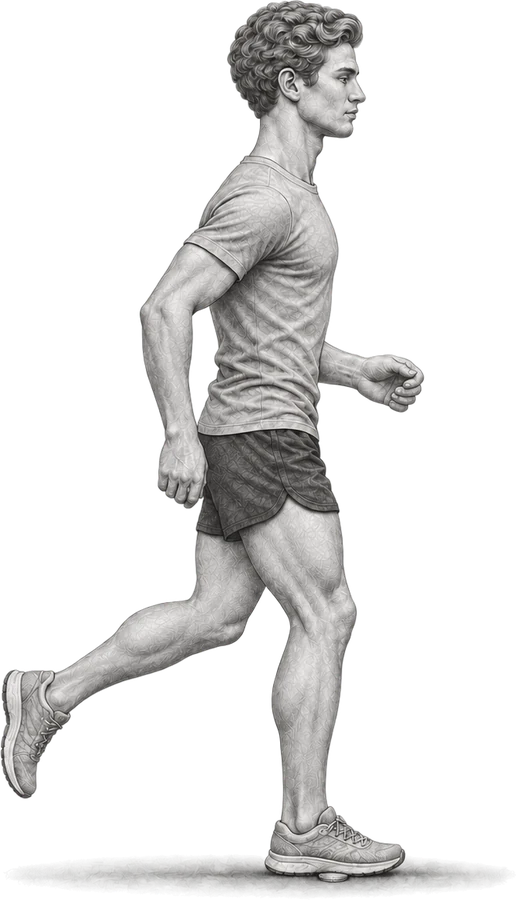
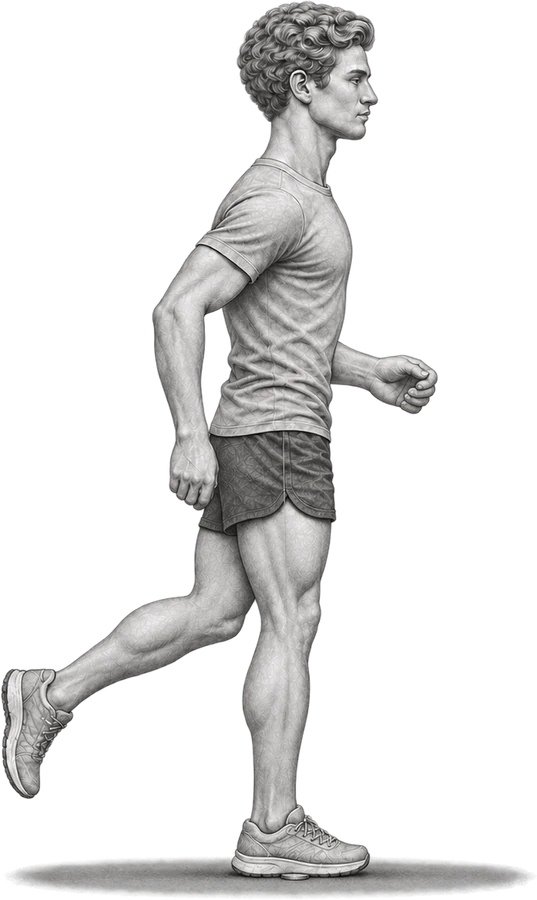
Cue pages: Picture it, Try it now (with what it feels like), Why it works; revised drawings for the five new cues
Claude-Session: https://claude.ai/code/session_01FwBuCoGgVzUwZtu9MbiFhK

Changed region(s): [[0.0, 0.0, 0.9922, 0.9956], [0.6512, 0.3733, 0.8372, 0.4667], [0.6202, 0.2178, 0.6512, 0.2489]]

diff --git a/cues/index.html b/cues/index.html
@@ -21,11 +21,11 @@
   <li><a href="/cues/four-lights/"><div class="cues-figure"><img src="/assets/cues/four-lights-600.webp" srcset="/assets/cues/four-lights-600.webp 1x, /assets/cues/four-lights-900.webp 2x" width="170" height="450" alt="A runner from the front, with small lights marking both shoulders and both hips, all square and facing forward." loading="lazy" decoding="async"></div><strong>Four lights</strong><span>Keep your shoulders right on top of your hips.</span></a></li>
   <li><a href="/cues/elbows-back/"><div class="cues-figure"><img src="/assets/cues/elbows-back-600.webp" srcset="/assets/cues/elbows-back-600.webp 1x, /assets/cues/elbows-back-900.webp 2x" width="326" height="450" alt="A runner from the side driving one elbow back behind the body." loading="lazy" decoding="async"></div><strong>Elbows back</strong><span>Push your elbows back. Let them swing forward on their own.</span></a></li>
   <li><a href="/cues/low-hands/"><div class="cues-figure"><img src="/assets/cues/low-hands-600.webp" srcset="/assets/cues/low-hands-600.webp 1x, /assets/cues/low-hands-900.webp 2x" width="177" height="450" alt="A runner with loose hands passing low, close to the hips." loading="lazy" decoding="async"></div><strong>Low hands</strong><span>Keep your hands low, close to your hips.</span></a></li>
-  <li><a href="/cues/soft-hands/"><div class="cues-figure"><img src="/assets/cues/soft-hands-600.webp" srcset="/assets/cues/soft-hands-600.webp 1x, /assets/cues/soft-hands-900.webp 2x" width="212" height="450" alt="A runner from the front with loose, relaxed hands." loading="lazy" decoding="async"></div><strong>Soft hands</strong><span>Keep your hands loose, never in a fist.</span></a></li>
-  <li><a href="/cues/hips-forward/"><div class="cues-figure"><img src="/assets/cues/hips-forward-600.webp" srcset="/assets/cues/hips-forward-600.webp 1x, /assets/cues/hips-forward-900.webp 2x" width="398" height="450" alt="A runner from the side, tall, with a thin orange rope pulling forward from the belt buckle." loading="lazy" decoding="async"></div><strong>Hips forward</strong><span>Run tall with your hips forward, right under your shoulders.</span></a></li>
-  <li><a href="/cues/tall-spring/"><div class="cues-figure"><img src="/assets/cues/tall-spring-600.webp" srcset="/assets/cues/tall-spring-600.webp 1x, /assets/cues/tall-spring-900.webp 2x" width="280" height="450" alt="A tall runner from the side with a light coil drawn around the standing leg." loading="lazy" decoding="async"></div><strong>Tall spring</strong><span>Run tall, with soft knees.</span></a></li>
-  <li><a href="/cues/land-under-you/"><div class="cues-figure"><img src="/assets/cues/land-under-you-600.webp" srcset="/assets/cues/land-under-you-600.webp 1x, /assets/cues/land-under-you-900.webp 2x" width="258" height="450" alt="A runner from the side with the front foot landing under the hips, on a small coin." loading="lazy" decoding="async"></div><strong>Land under you</strong><span>Let each foot land right under your hips, not out in front.</span></a></li>
-  <li><a href="/cues/quick-feet/"><div class="cues-figure"><img src="/assets/cues/quick-feet-600.webp" srcset="/assets/cues/quick-feet-600.webp 1x, /assets/cues/quick-feet-900.webp 2x" width="263" height="450" alt="A runner from the side, one foot barely touching the ground with small heat lines under it." loading="lazy" decoding="async"></div><strong>Quick feet</strong><span>Take light, quick steps. Your feet leave the ground fast.</span></a></li>
+  <li><a href="/cues/soft-hands/"><div class="cues-figure"><img src="/assets/cues/soft-hands-600.webp" srcset="/assets/cues/soft-hands-600.webp 1x, /assets/cues/soft-hands-900.webp 2x" width="220" height="450" alt="A runner from the front with loose, relaxed hands." loading="lazy" decoding="async"></div><strong>Soft hands</strong><span>Keep your hands loose, never in a fist.</span></a></li>
+  <li><a href="/cues/hips-forward/"><div class="cues-figure"><img src="/assets/cues/hips-forward-600.webp" srcset="/assets/cues/hips-forward-600.webp 1x, /assets/cues/hips-forward-900.webp 2x" width="393" height="450" alt="A runner from the side, tall, with a thin orange rope pulling forward from the belt buckle." loading="lazy" decoding="async"></div><strong>Hips forward</strong><span>Run tall with your hips forward, right under your shoulders.</span></a></li>
+  <li><a href="/cues/tall-spring/"><div class="cues-figure"><img src="/assets/cues/tall-spring-600.webp" srcset="/assets/cues/tall-spring-600.webp 1x, /assets/cues/tall-spring-900.webp 2x" width="279" height="450" alt="A tall runner from the side with a light coil drawn around the standing leg." loading="lazy" decoding="async"></div><strong>Tall spring</strong><span>Run tall, with soft knees.</span></a></li>
+  <li><a href="/cues/land-under-you/"><div class="cues-figure"><img src="/assets/cues/land-under-you-600.webp" srcset="/assets/cues/land-under-you-600.webp 1x, /assets/cues/land-under-you-900.webp 2x" width="268" height="450" alt="A runner from the side with the front foot landing under the hips, on a small coin." loading="lazy" decoding="async"></div><strong>Land under you</strong><span>Let each foot land right under your hips, not out in front.</span></a></li>
+  <li><a href="/cues/quick-feet/"><div class="cues-figure"><img src="/assets/cues/quick-feet-600.webp" srcset="/assets/cues/quick-feet-600.webp 1x, /assets/cues/quick-feet-900.webp 2x" width="268" height="450" alt="A runner from the side, one foot barely touching the ground with small heat lines under it." loading="lazy" decoding="async"></div><strong>Quick feet</strong><span>Take light, quick steps. Your feet leave the ground fast.</span></a></li>
   <li><a href="/cues/straight-feet/"><div class="cues-figure"><img src="/assets/cues/straight-feet-600.webp" srcset="/assets/cues/straight-feet-600.webp 1x, /assets/cues/straight-feet-900.webp 2x" width="167" height="450" alt="A runner from the front with both feet landing pointed straight ahead." loading="lazy" decoding="async"></div><strong>Straight feet</strong><span>Point your toes straight ahead when each foot lands.</span></a></li>
 </ul>
 <nav class="cues-shell cues-rows" aria-label="Next">

diff --git a/cues/hips-forward/index.html b/cues/hips-forward/index.html
@@ -15,12 +15,15 @@
 <div class="cues-top"><header class="cues-shell sf-menu-host"><a class="sf-brand" href="/" aria-label="Speed and Form home"></a><a class="sf-menu-toggle" href="#site-menu" aria-controls="site-menu" aria-label="Menu"><svg viewBox="0 0 24 24" aria-hidden="true" focusable="false"><path d="M3 6h18M3 12h18M3 18h18"/></svg></a></header></div>
 <main>
 <article class="cues-shell cue">
-  <figure class="cue-figure"><img src="/assets/cues/hips-forward-900.webp" width="797" height="900" alt="A runner from the side, tall, with a thin orange rope pulling forward from the belt buckle." fetchpriority="high" decoding="async"></figure>
+  <figure class="cue-figure"><img src="/assets/cues/hips-forward-900.webp" width="786" height="900" alt="A runner from the side, tall, with a thin orange rope pulling forward from the belt buckle." fetchpriority="high" decoding="async"></figure>
   <div class="cue-copy">
     <h1>Hips forward</h1>
     <p class="cue-do">Run tall with your hips forward, right under your shoulders.</p>
-    <p class="cue-think">Pretend a rope is tied to your belt buckle, gently pulling you forward. Your hips go first and your feet follow.</p>
-    <p class="cue-why">When your hips sit back, your legs do all the work. Hips forward lets your glutes push you along.</p>
+    <div class="cue-beats">
+      <section><h2>Picture it</h2><p>Pretend a rope is tied to your belt buckle, gently pulling you forward. Your hips go first and your feet follow.</p></section>
+      <section><h2>Try it now</h2><p>Stand tall and lean your whole body forward from the ankles until you have to take a step. That first step is the feeling.</p><p class="cue-feel">Your glutes push you along and each step feels easier.</p></section>
+      <section><h2>Why it works</h2><p>When your hips sit back, your legs do all the work. Hips forward lets your glutes push you along.</p></section>
+    </div>
     <p class="cue-practice">On easy runs, think about it for 30 seconds, three times. Then run normally and notice the difference. In hard workouts, use it on the last rep.</p>
     <div class="cue-app"><img src="/assets/brand/apps/icon-run-cream-1024.png" alt="" width="56" height="56" loading="lazy"><a class="cue-app-get" href="https://apps.apple.com/us/app/form-running-plans/id6761313085" target="_blank" rel="noopener noreferrer">Practice it in the app <svg viewBox="0 0 24 24" aria-hidden="true" focusable="false"><path d="M5 19 19 5M5 5h14v14"/></svg></a></div>
   </div>

diff --git a/cues/tall-spring/index.html b/cues/tall-spring/index.html
@@ -15,12 +15,15 @@
 <div class="cues-top"><header class="cues-shell sf-menu-host"><a class="sf-brand" href="/" aria-label="Speed and Form home"></a><a class="sf-menu-toggle" href="#site-menu" aria-controls="site-menu" aria-label="Menu"><svg viewBox="0 0 24 24" aria-hidden="true" focusable="false"><path d="M3 6h18M3 12h18M3 18h18"/></svg></a></header></div>
 <main>
 <article class="cues-shell cue">
-  <figure class="cue-figure"><img src="/assets/cues/tall-spring-900.webp" width="560" height="900" alt="A tall runner from the side with a light coil drawn around the standing leg." fetchpriority="high" decoding="async"></figure>
+  <figure class="cue-figure"><img src="/assets/cues/tall-spring-900.webp" width="559" height="900" alt="A tall runner from the side with a light coil drawn around the standing leg." fetchpriority="high" decoding="async"></figure>
   <div class="cue-copy">
     <h1>Tall spring</h1>
     <p class="cue-do">Run tall, with soft knees.</p>
-    <p class="cue-think">Pretend you are a spring standing up tall. Each step squishes it a little, and it pops you forward.</p>
-    <p class="cue-why">A tall, springy body stores energy on every step and gives it back. Stiff or slumped, that energy leaks away.</p>
+    <div class="cue-beats">
+      <section><h2>Picture it</h2><p>Pretend you are a spring standing up tall. Each step squishes it a little, and it pops you forward.</p></section>
+      <section><h2>Try it now</h2><p>Do 20 small hops on the spot, light and quiet, staying tall. Then start running with the same bounce.</p><p class="cue-feel">Each step feels light, like the ground gives some energy back.</p></section>
+      <section><h2>Why it works</h2><p>A tall, springy body stores energy on every step and gives it back. Stiff or slumped, that energy leaks away.</p></section>
+    </div>
     <p class="cue-practice">On easy runs, think about it for 30 seconds, three times. Then run normally and notice the difference. In hard workouts, use it on the last rep.</p>
     <div class="cue-app"><img src="/assets/brand/apps/icon-run-cream-1024.png" alt="" width="56" height="56" loading="lazy"><a class="cue-app-get" href="https://apps.apple.com/us/app/form-running-plans/id6761313085" target="_blank" rel="noopener noreferrer">Practice it in the app <svg viewBox="0 0 24 24" aria-hidden="true" focusable="false"><path d="M5 19 19 5M5 5h14v14"/></svg></a></div>
   </div>

diff --git a/cues/land-under-you/index.html b/cues/land-under-you/index.html
@@ -15,12 +15,15 @@
 <div class="cues-top"><header class="cues-shell sf-menu-host"><a class="sf-brand" href="/" aria-label="Speed and Form home"></a><a class="sf-menu-toggle" href="#site-menu" aria-controls="site-menu" aria-label="Menu"><svg viewBox="0 0 24 24" aria-hidden="true" focusable="false"><path d="M3 6h18M3 12h18M3 18h18"/></svg></a></header></div>
 <main>
 <article class="cues-shell cue">
-  <figure class="cue-figure"><img src="/assets/cues/land-under-you-900.webp" width="516" height="900" alt="A runner from the side with the front foot landing under the hips, on a small coin." fetchpriority="high" decoding="async"></figure>
+  <figure class="cue-figure"><img src="/assets/cues/land-under-you-900.webp" width="537" height="900" alt="A runner from the side with the front foot landing under the hips, on a small coin." fetchpriority="high" decoding="async"></figure>
   <div class="cue-copy">
     <h1>Land under you</h1>
     <p class="cue-do">Let each foot land right under your hips, not out in front.</p>
-    <p class="cue-think">Pretend there is a coin on the ground right under your hips. Step on the coin.</p>
-    <p class="cue-why">A foot that lands far in front puts on the brakes. Landing under you keeps you rolling forward.</p>
+    <div class="cue-beats">
+      <section><h2>Picture it</h2><p>Pretend there is a coin on the ground right under your hips. Step on the coin.</p></section>
+      <section><h2>Try it now</h2><p>Run on the spot for ten seconds. Your feet land right under you. Now drift forward and keep landing there.</p><p class="cue-feel">Your steps get a little shorter, quicker and quieter.</p></section>
+      <section><h2>Why it works</h2><p>A foot that lands far in front puts on the brakes. Landing under you keeps you rolling forward.</p></section>
+    </div>
     <p class="cue-practice">On easy runs, think about it for 30 seconds, three times. Then run normally and notice the difference. In hard workouts, use it on the last rep.</p>
     <div class="cue-app"><img src="/assets/brand/apps/icon-run-cream-1024.png" alt="" width="56" height="56" loading="lazy"><a class="cue-app-get" href="https://apps.apple.com/us/app/form-running-plans/id6761313085" target="_blank" rel="noopener noreferrer">Practice it in the app <svg viewBox="0 0 24 24" aria-hidden="true" focusable="false"><path d="M5 19 19 5M5 5h14v14"/></svg></a></div>
   </div>

diff --git a/cues/quick-feet/index.html b/cues/quick-feet/index.html
@@ -15,12 +15,15 @@
 <div class="cues-top"><header class="cues-shell sf-menu-host"><a class="sf-brand" href="/" aria-label="Speed and Form home"></a><a class="sf-menu-toggle" href="#site-menu" aria-controls="site-menu" aria-label="Menu"><svg viewBox="0 0 24 24" aria-hidden="true" focusable="false"><path d="M3 6h18M3 12h18M3 18h18"/></svg></a></header></div>
 <main>
 <article class="cues-shell cue">
-  <figure class="cue-figure"><img src="/assets/cues/quick-feet-900.webp" width="527" height="900" alt="A runner from the side, one foot barely touching the ground with small heat lines under it." fetchpriority="high" decoding="async"></figure>
+  <figure class="cue-figure"><img src="/assets/cues/quick-feet-900.webp" width="536" height="900" alt="A runner from the side, one foot barely touching the ground with small heat lines under it." fetchpriority="high" decoding="async"></figure>
   <div class="cue-copy">
     <h1>Quick feet</h1>
     <p class="cue-do">Take light, quick steps. Your feet leave the ground fast.</p>
-    <p class="cue-think">Pretend the ground is hot. Touch it and get your foot off fast.</p>
-    <p class="cue-why">Quick, light steps spend less time braking and put less pounding on your legs.</p>
+    <div class="cue-beats">
+      <section><h2>Picture it</h2><p>Pretend the ground is hot. Touch it and get your foot off fast.</p></section>
+      <section><h2>Try it now</h2><p>Count your right foot for 30 seconds. Then add two or three more steps at the same speed.</p><p class="cue-feel">Lighter, quieter steps, as if you are barely touching the ground.</p></section>
+      <section><h2>Why it works</h2><p>Quick, light steps spend less time braking and put less pounding on your legs.</p></section>
+    </div>
     <p class="cue-practice">On easy runs, think about it for 30 seconds, three times. Then run normally and notice the difference. In hard workouts, use it on the last rep.</p>
     <div class="cue-app"><img src="/assets/brand/apps/icon-run-cream-1024.png" alt="" width="56" height="56" loading="lazy"><a class="cue-app-get" href="https://apps.apple.com/us/app/form-running-plans/id6761313085" target="_blank" rel="noopener noreferrer">Practice it in the app <svg viewBox="0 0 24 24" aria-hidden="true" focusable="false"><path d="M5 19 19 5M5 5h14v14"/></svg></a></div>
   </div>

diff --git a/cues/soft-hands/index.html b/cues/soft-hands/index.html
@@ -15,12 +15,15 @@
 <div class="cues-top"><header class="cues-shell sf-menu-host"><a class="sf-brand" href="/" aria-label="Speed and Form home"></a><a class="sf-menu-toggle" href="#site-menu" aria-controls="site-menu" aria-label="Menu"><svg viewBox="0 0 24 24" aria-hidden="true" focusable="false"><path d="M3 6h18M3 12h18M3 18h18"/></svg></a></header></div>
 <main>
 <article class="cues-shell cue">
-  <figure class="cue-figure"><img src="/assets/cues/soft-hands-900.webp" width="424" height="900" alt="A runner from the front with loose, relaxed hands." fetchpriority="high" decoding="async"></figure>
+  <figure class="cue-figure"><img src="/assets/cues/soft-hands-900.webp" width="440" height="900" alt="A runner from the front with loose, relaxed hands." fetchpriority="high" decoding="async"></figure>
   <div class="cue-copy">
     <h1>Soft hands</h1>
     <p class="cue-do">Keep your hands loose, never in a fist.</p>
-    <p class="cue-think">Pretend you are holding a potato chip in each hand. Don&#x27;t break it.</p>
-    <p class="cue-why">Tight fists make tight arms and shoulders. Soft hands let the whole upper body relax.</p>
+    <div class="cue-beats">
+      <section><h2>Picture it</h2><p>Pretend you are holding a potato chip in each hand. Don&#x27;t break it.</p></section>
+      <section><h2>Try it now</h2><p>Squeeze a tight fist for five seconds, then open it halfway. Run with the halfway hand.</p><p class="cue-feel">Your forearms and shoulders stay loose.</p></section>
+      <section><h2>Why it works</h2><p>Tight fists make tight arms and shoulders. Soft hands let the whole upper body relax.</p></section>
+    </div>
     <p class="cue-practice">On easy runs, think about it for 30 seconds, three times. Then run normally and notice the difference. In hard workouts, use it on the last rep.</p>
     <div class="cue-app"><img src="/assets/brand/apps/icon-run-cream-1024.png" alt="" width="56" height="56" loading="lazy"><a class="cue-app-get" href="https://apps.apple.com/us/app/form-running-plans/id6761313085" target="_blank" rel="noopener noreferrer">Practice it in the app <svg viewBox="0 0 24 24" aria-hidden="true" focusable="false"><path d="M5 19 19 5M5 5h14v14"/></svg></a></div>
   </div>

diff --git a/cues/four-lights/index.html b/cues/four-lights/index.html
@@ -19,8 +19,11 @@
   <div class="cue-copy">
     <h1>Four lights</h1>
     <p class="cue-do">Keep your shoulders right on top of your hips.</p>
-    <p class="cue-think">Pretend you have headlights on your shoulders and tail lights on your hips. Keep all four lights pointing straight ahead, never crossing.</p>
-    <p class="cue-why">When your shoulders twist side to side, you waste energy. Facing forward sends all of it forward.</p>
+    <div class="cue-beats">
+      <section><h2>Picture it</h2><p>Pretend you have headlights on your shoulders and tail lights on your hips. Keep all four lights pointing straight ahead, never crossing.</p></section>
+      <section><h2>Try it now</h2><p>Watch yourself run toward a shop window, or film ten seconds from the front. Shoulders and hips face the same way the whole time.</p><p class="cue-feel">Your chest faces forward and your arms swing past your sides, not across your body.</p></section>
+      <section><h2>Why it works</h2><p>When your shoulders twist side to side, you waste energy. Facing forward sends all of it forward.</p></section>
+    </div>
     <p class="cue-practice">On easy runs, think about it for 30 seconds, three times. Then run normally and notice the difference. In hard workouts, use it on the last rep.</p>
     <div class="cue-app"><img src="/assets/brand/apps/icon-run-cream-1024.png" alt="" width="56" height="56" loading="lazy"><a class="cue-app-get" href="https://apps.apple.com/us/app/form-running-plans/id6761313085" target="_blank" rel="noopener noreferrer">Practice it in the app <svg viewBox="0 0 24 24" aria-hidden="true" focusable="false"><path d="M5 19 19 5M5 5h14v14"/></svg></a></div>
   </div>

diff --git a/cues/long-neck/index.html b/cues/long-neck/index.html
@@ -19,8 +19,11 @@
   <div class="cue-copy">
     <h1>Long neck</h1>
     <p class="cue-do">Keep your chin level. Look at the ground a little way ahead.</p>
-    <p class="cue-think">Pretend a string is gently pulling the top of your head up to the sky. Your chin stays level, never up.</p>
-    <p class="cue-why">A high chin bends your back and tightens your shoulders. A long neck keeps you tall and makes breathing easy.</p>
+    <div class="cue-beats">
+      <section><h2>Picture it</h2><p>Pretend a string is gently pulling the top of your head up to the sky. Your chin stays level, never up.</p></section>
+      <section><h2>Try it now</h2><p>Stand with your back on a wall. Touch the wall with the back of your head without lifting your chin. Run at that height.</p><p class="cue-feel">Your neck feels long and your shoulders drop.</p></section>
+      <section><h2>Why it works</h2><p>A high chin bends your back and tightens your shoulders. A long neck keeps you tall and makes breathing easy.</p></section>
+    </div>
     <p class="cue-practice">On easy runs, think about it for 30 seconds, three times. Then run normally and notice the difference. In hard workouts, use it on the last rep.</p>
     <div class="cue-app"><img src="/assets/brand/apps/icon-run-cream-1024.png" alt="" width="56" height="56" loading="lazy"><a class="cue-app-get" href="https://apps.apple.com/us/app/form-running-plans/id6761313085" target="_blank" rel="noopener noreferrer">Practice it in the app <svg viewBox="0 0 24 24" aria-hidden="true" focusable="false"><path d="M5 19 19 5M5 5h14v14"/></svg></a></div>
   </div>

diff --git a/cues/straight-feet/index.html b/cues/straight-feet/index.html
@@ -19,8 +19,11 @@
   <div class="cue-copy">
     <h1>Straight feet</h1>
     <p class="cue-do">Point your toes straight ahead when each foot lands.</p>
-    <p class="cue-think">Pretend you are running on two train tracks, one for each foot. Keep your toes on the tracks.</p>
-    <p class="cue-why">A foot that turns out pushes you sideways. Straight feet push you forward and keep your knees happy.</p>
+    <div class="cue-beats">
+      <section><h2>Picture it</h2><p>Pretend you are running on two train tracks, one for each foot. Keep your toes on the tracks.</p></section>
+      <section><h2>Try it now</h2><p>Run along a painted line. Each foot lands on its own side of it, toes pointing straight down the line.</p><p class="cue-feel">Your knees travel straight ahead, over your toes.</p></section>
+      <section><h2>Why it works</h2><p>A foot that turns out pushes you sideways. Straight feet push you forward and keep your knees happy.</p></section>
+    </div>
     <p class="cue-practice">On easy runs, think about it for 30 seconds, three times. Then run normally and notice the difference. In hard workouts, use it on the last rep.</p>
     <div class="cue-app"><img src="/assets/brand/apps/icon-run-cream-1024.png" alt="" width="56" height="56" loading="lazy"><a class="cue-app-get" href="https://apps.apple.com/us/app/form-running-plans/id6761313085" target="_blank" rel="noopener noreferrer">Practice it in the app <svg viewBox="0 0 24 24" aria-hidden="true" focusable="false"><path d="M5 19 19 5M5 5h14v14"/></svg></a></div>
   </div>

diff --git a/cues/elbows-back/index.html b/cues/elbows-back/index.html
@@ -19,8 +19,11 @@
   <div class="cue-copy">
     <h1>Elbows back</h1>
     <p class="cue-do">Push your elbows back. Let them swing forward on their own.</p>
-    <p class="cue-think">Pretend someone is standing right behind you. Bump them gently with each elbow.</p>
-    <p class="cue-why">Your legs copy your arms. Arms that push back push you forward.</p>
+    <div class="cue-beats">
+      <section><h2>Picture it</h2><p>Pretend someone is standing right behind you. Bump them gently with each elbow.</p></section>
+      <section><h2>Try it now</h2><p>Stand still and swing your arms. Push back firmly and let the forward swing be easy. Notice your legs want to go.</p><p class="cue-feel">The work happens behind you, and your hands stay relaxed.</p></section>
+      <section><h2>Why it works</h2><p>Your legs copy your arms. Arms that push back push you forward.</p></section>
+    </div>
     <p class="cue-practice">On easy runs, think about it for 30 seconds, three times. Then run normally and notice the difference. In hard workouts, use it on the last rep.</p>
     <div class="cue-app"><img src="/assets/brand/apps/icon-run-cream-1024.png" alt="" width="56" height="56" loading="lazy"><a class="cue-app-get" href="https://apps.apple.com/us/app/form-running-plans/id6761313085" target="_blank" rel="noopener noreferrer">Practice it in the app <svg viewBox="0 0 24 24" aria-hidden="true" focusable="false"><path d="M5 19 19 5M5 5h14v14"/></svg></a></div>
   </div>

diff --git a/cues/quiet-shoulders/index.html b/cues/quiet-shoulders/index.html
@@ -19,8 +19,11 @@
   <div class="cue-copy">
     <h1>Quiet shoulders</h1>
     <p class="cue-do">Keep your shoulders low and still. Only your arms swing.</p>
-    <p class="cue-think">Pretend there is a full cup of water on each shoulder. Don&#x27;t spill a drop.</p>
-    <p class="cue-why">Bouncy shoulders push you up instead of forward, and they make your neck tight.</p>
+    <div class="cue-beats">
+      <section><h2>Picture it</h2><p>Pretend there is a full cup of water on each shoulder. Don&#x27;t spill a drop.</p></section>
+      <section><h2>Try it now</h2><p>Shrug your shoulders up to your ears, then let them fall. Where they land is where they stay.</p><p class="cue-feel">Your neck stays loose, even late in the run.</p></section>
+      <section><h2>Why it works</h2><p>Bouncy shoulders push you up instead of forward, and they make your neck tight.</p></section>
+    </div>
     <p class="cue-practice">On easy runs, think about it for 30 seconds, three times. Then run normally and notice the difference. In hard workouts, use it on the last rep.</p>
     <div class="cue-app"><img src="/assets/brand/apps/icon-run-cream-1024.png" alt="" width="56" height="56" loading="lazy"><a class="cue-app-get" href="https://apps.apple.com/us/app/form-running-plans/id6761313085" target="_blank" rel="noopener noreferrer">Practice it in the app <svg viewBox="0 0 24 24" aria-hidden="true" focusable="false"><path d="M5 19 19 5M5 5h14v14"/></svg></a></div>
   </div>

diff --git a/cues/low-hands/index.html b/cues/low-hands/index.html
@@ -19,8 +19,11 @@
   <div class="cue-copy">
     <h1>Low hands</h1>
     <p class="cue-do">Keep your hands low, close to your hips.</p>
-    <p class="cue-think">Reach for your shorts pockets every time your arm swings back.</p>
-    <p class="cue-why">High hands make your shoulders tight. Low, loose hands let your arms help your legs.</p>
+    <div class="cue-beats">
+      <section><h2>Picture it</h2><p>Reach for your shorts pockets every time your arm swings back.</p></section>
+      <section><h2>Try it now</h2><p>Bend your elbows to about a right angle and swing so your thumbs brush the side of your shorts.</p><p class="cue-feel">Your shoulders sink and your arms feel lighter.</p></section>
+      <section><h2>Why it works</h2><p>High hands make your shoulders tight. Low, loose hands let your arms help your legs.</p></section>
+    </div>
     <p class="cue-practice">On easy runs, think about it for 30 seconds, three times. Then run normally and notice the difference. In hard workouts, use it on the last rep.</p>
     <div class="cue-app"><img src="/assets/brand/apps/icon-run-cream-1024.png" alt="" width="56" height="56" loading="lazy"><a class="cue-app-get" href="https://apps.apple.com/us/app/form-running-plans/id6761313085" target="_blank" rel="noopener noreferrer">Practice it in the app <svg viewBox="0 0 24 24" aria-hidden="true" focusable="false"><path d="M5 19 19 5M5 5h14v14"/></svg></a></div>
   </div>
